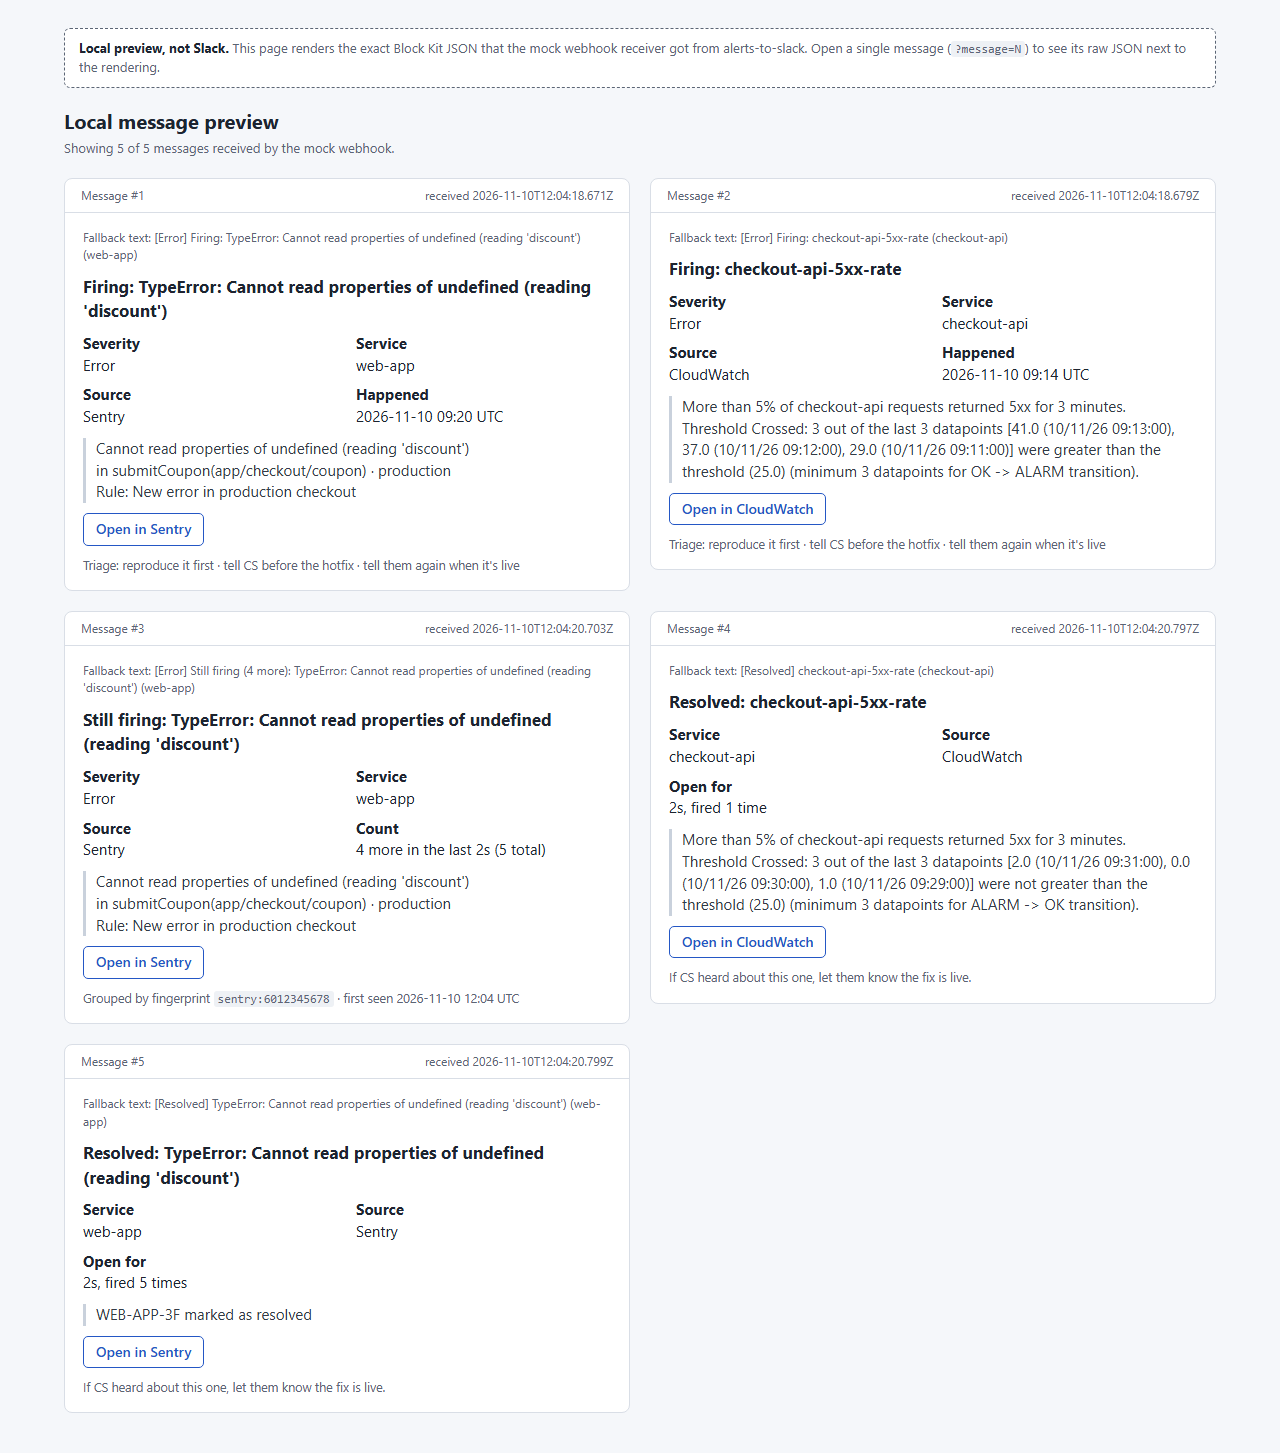
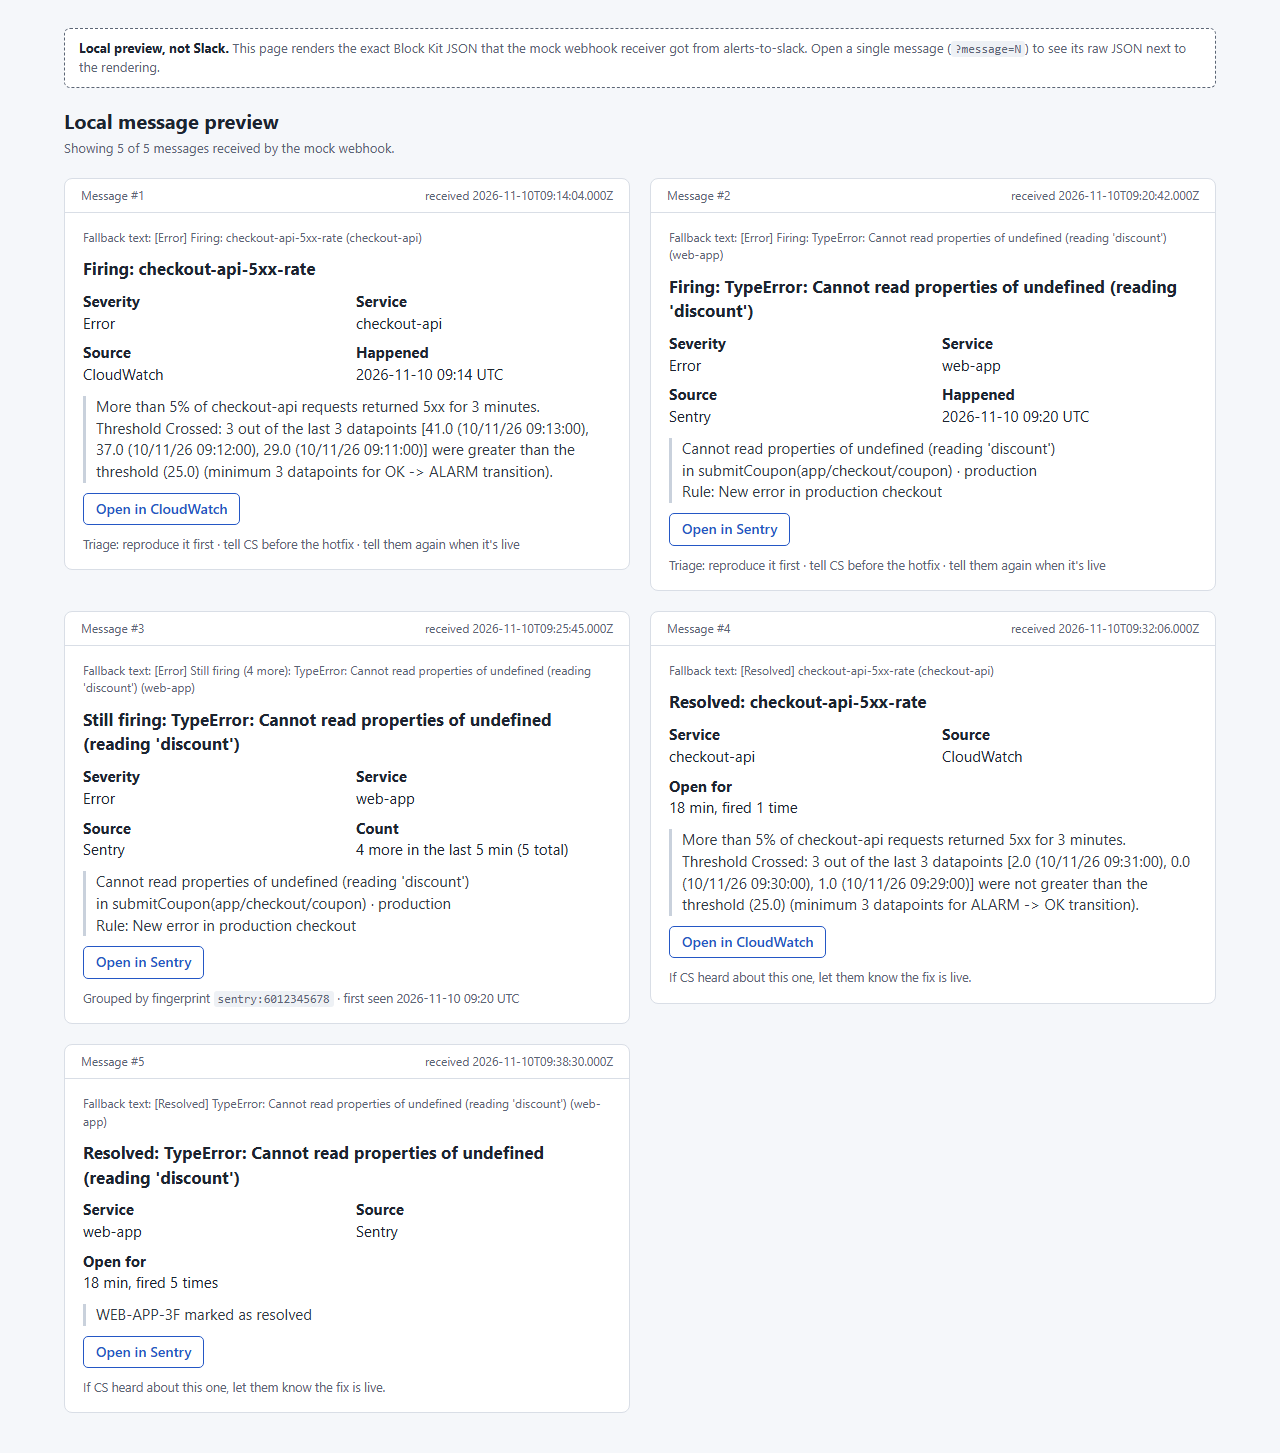
Take screenshots on a simulated clock with the default 5 minute window

diff --git a/scripts/screenshots.ts b/scripts/screenshots.ts
@@ -1,21 +1,31 @@
-// Runs the service and mock webhook on their own ports, sends the demo fixtures,
-// and captures the local preview page with Playwright.
+// Runs the service and mock webhook on their own ports, replays the fixtures on a
+// simulated clock, and captures the local preview page with Playwright.
+//
+// The service gets an injected clock instead of Date.now, so a 5 minute grouping window
+// and a resolve 18 minutes later take no real time. Every request still goes over HTTP
+// through the real handler, and the page shows the Block Kit JSON the service posted.
 import { mkdirSync } from "node:fs";
 import { chromium } from "playwright";
 import { createMockSlack } from "../mock/slack-receiver.js";
 import { createApp } from "../src/app.js";
 import { createHttpServer } from "../src/server.js";
-import { runDemo } from "./demo-lib.js";
+import { senders } from "./demo-lib.js";
 
 const SERVICE_PORT = 3503;
 const MOCK_PORT = 3504;
-const sharedSecret = "screenshot-shared-secret";
-const sentryClientSecret = "screenshot-sentry-client-secret";
 const mockUrl = `http://127.0.0.1:${MOCK_PORT}`;
 const serviceUrl = `http://127.0.0.1:${SERVICE_PORT}`;
+const sharedSecret = "screenshot-shared-secret";
+const sentryClientSecret = "screenshot-sentry-client-secret";
 const outDir = "docs/screenshots";
 
-const mock = createMockSlack();
+// Simulated time, lined up with the timestamps inside the fixtures.
+let clock = 0;
+const at = (hhmmss: string) => {
+  clock = Date.parse(`2026-11-10T${hhmmss}Z`);
+};
+
+const mock = createMockSlack(() => clock);
 await new Promise<void>((r) => mock.server.listen(MOCK_PORT, "127.0.0.1", r));
 
 const app = createApp({
@@ -23,24 +33,39 @@ const app = createApp({
     slackWebhookUrl: `${mockUrl}/webhook`,
     sharedSecret,
     sentryClientSecret,
-    groupWindowMs: 2000,
+    groupWindowMs: 5 * 60_000, // the production default
   },
+  now: () => clock,
   log: () => {},
 });
 const server = createHttpServer(app);
 await new Promise<void>((r) => server.listen(SERVICE_PORT, "127.0.0.1", r));
-const timer = setInterval(() => void app.flush(), 500);
 
 try {
-  await runDemo({ serviceUrl, mockUrl, sharedSecret, sentryClientSecret });
+  const { sns, sentry } = senders({ serviceUrl, mockUrl, sharedSecret, sentryClientSecret });
 
-  const kinds = mock.messages.map((m) => (m.payload as { text: string }).text);
+  at("09:14:04");
+  await sns("sns-cloudwatch-alarm.json"); // posts: Firing
+  at("09:20:42");
+  await sentry("sentry-issue-alert.json", "event_alert"); // posts: Firing
+  for (const t of ["09:21:35", "09:22:58", "09:24:10", "09:25:21"]) {
+    at(t);
+    await sentry("sentry-issue-alert.json", "event_alert"); // counted, not posted
+  }
+  at("09:25:45");
+  await app.flush(); // the scheduled flush after the window closes: posts "4 more in the last 5 min"
+  at("09:32:06");
+  await sns("sns-cloudwatch-ok.json"); // posts: Resolved, open 18 min
+  at("09:38:30");
+  await sentry("sentry-issue-resolved.json", "issue"); // posts: Resolved
+
+  const texts = mock.messages.map((m) => (m.payload as { text: string }).text);
   const grouped = mock.messages.find((m) => (m.payload as { text: string }).text.includes("Still firing"));
   const resolved = mock.messages.find((m) => {
     const text = (m.payload as { text: string }).text;
     return text.startsWith("[Resolved]") && text.includes("checkout-api");
   });
-  if (!grouped || !resolved) throw new Error(`expected a grouped and a resolved message, got: ${kinds.join(" | ")}`);
+  if (!grouped || !resolved) throw new Error(`expected a grouped and a resolved message, got: ${texts.join(" | ")}`);
 
   mkdirSync(outDir, { recursive: true });
   const browser = await chromium.launch();
@@ -58,7 +83,6 @@ try {
   }
   await browser.close();
 } finally {
-  clearInterval(timer);
   server.close();
   mock.server.close();
 }

diff --git a/scripts/demo-lib.ts b/scripts/demo-lib.ts
@@ -6,7 +6,7 @@ import { signSentryBody } from "../src/auth.js";
 const fixtureDir = fileURLToPath(new URL("../fixtures/", import.meta.url));
 export const fixture = (name: string) => readFileSync(`${fixtureDir}${name}`, "utf8");
 
-interface Target {
+export interface Target {
   serviceUrl: string;
   mockUrl: string;
   sharedSecret: string;
@@ -23,6 +23,27 @@ export async function runDemo(t: Target) {
 
   const health = (await (await fetch(`${t.serviceUrl}/health`)).json()) as { groupWindowSeconds: number };
   await fetch(`${t.mockUrl}/messages`, { method: "DELETE" });
+
+  const { sns, sentry } = senders(t);
+
+  for (let i = 0; i < 5; i++) await sentry("sentry-issue-alert.json", "event_alert");
+  await sns("sns-cloudwatch-alarm.json");
+
+  log(`waiting for the ${health.groupWindowSeconds}s grouping window to close...`);
+  await waitFor(async () => {
+    const messages = (await (await fetch(`${t.mockUrl}/messages`)).json()) as unknown[];
+    return messages.length >= 3;
+  }, health.groupWindowSeconds * 1000 * 3 + 5000);
+
+  await sns("sns-cloudwatch-ok.json");
+  await sentry("sentry-issue-resolved.json", "issue");
+
+  log(`done. preview: ${t.mockUrl}/`);
+}
+
+/** Posts fixtures to a running service the way SNS and Sentry would, with the right secret or signature. */
+export function senders(t: Target) {
+  const log = t.log ?? console.log;
 
   const sns = async (name: string) => {
     const res = await fetch(`${t.serviceUrl}/sns`, {
@@ -51,19 +72,7 @@ export async function runDemo(t: Target) {
     log(`POST /sentry  ${name.padEnd(32)} ${res.status} ${await res.text()}`);
   };
 
-  for (let i = 0; i < 5; i++) await sentry("sentry-issue-alert.json", "event_alert");
-  await sns("sns-cloudwatch-alarm.json");
-
-  log(`waiting for the ${health.groupWindowSeconds}s grouping window to close...`);
-  await waitFor(async () => {
-    const messages = (await (await fetch(`${t.mockUrl}/messages`)).json()) as unknown[];
-    return messages.length >= 3;
-  }, health.groupWindowSeconds * 1000 * 3 + 5000);
-
-  await sns("sns-cloudwatch-ok.json");
-  await sentry("sentry-issue-resolved.json", "issue");
-
-  log(`done. preview: ${t.mockUrl}/`);
+  return { sns, sentry };
 }
 
 async function waitFor(check: () => Promise<boolean>, timeoutMs: number) {

diff --git a/mock/slack-receiver.ts b/mock/slack-receiver.ts
@@ -11,7 +11,7 @@ export interface ReceivedMessage {
  * A stand-in for a Slack incoming webhook. It stores whatever JSON it gets and serves
  * a local preview page of it. Nothing here talks to Slack.
  */
-export function createMockSlack() {
+export function createMockSlack(now: () => number = Date.now) {
   const messages: ReceivedMessage[] = [];
   let failNext: number | undefined;
 
@@ -35,7 +35,7 @@ export function createMockSlack() {
           res.writeHead(400, { "content-type": "text/plain" }).end("invalid_payload");
           return;
         }
-        messages.push({ index: messages.length + 1, receivedAt: new Date().toISOString(), payload });
+        messages.push({ index: messages.length + 1, receivedAt: new Date(now()).toISOString(), payload });
         res.writeHead(200, { "content-type": "text/plain" }).end("ok");
       });
       return;

diff --git a/README.md b/README.md
@@ -31,7 +31,7 @@ npm run demo    # in a second terminal: sends the fixtures through the service
 
 Open http://127.0.0.1:3502/ to see what the mock webhook received. `npm run dev` uses a 10 second grouping window so the demo finishes quickly; the service default is 300. Settings are listed in [`.env.example`](.env.example).
 
-`npm run screenshots` starts its own copy on ports 3503 and 3504, runs the demo and saves `docs/screenshots/*.png` with Playwright.
+`npm run screenshots` starts its own copy on ports 3503 and 3504 with the default 5 minute window and an injected clock. It replays the fixtures over about 25 simulated minutes through the real HTTP handler, then saves `docs/screenshots/*.png` with Playwright.
 
 For Lambda, `npm run build` writes `dist/`. The handler is `lambda.handler`; it takes Function URL or API Gateway HTTP API (v2) events, and scheduled EventBridge events trigger the flush. The output is ES modules, so ship it with this `package.json` or bundle it.
 
